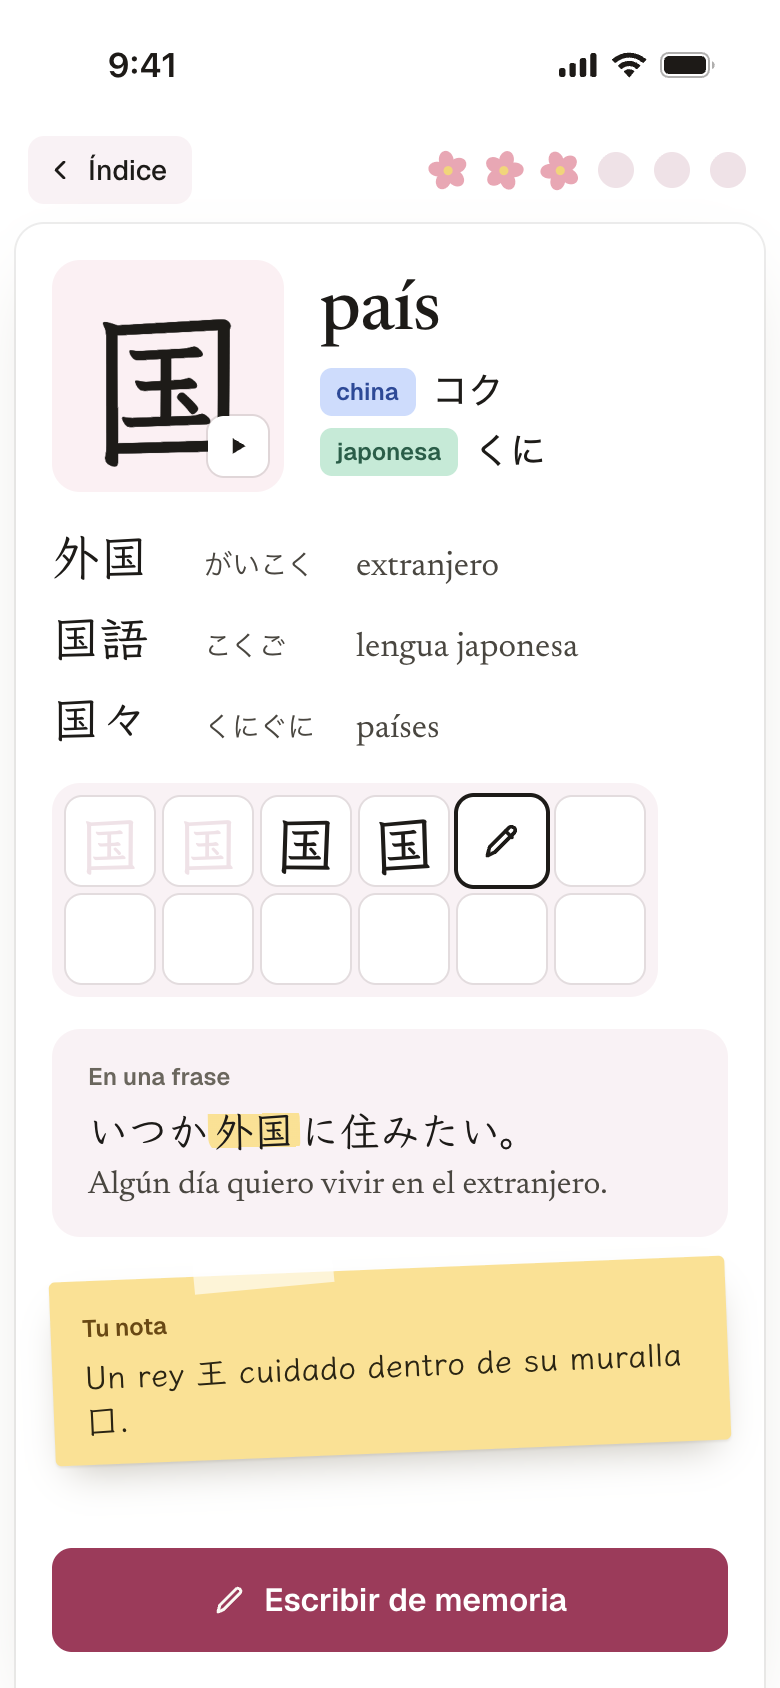
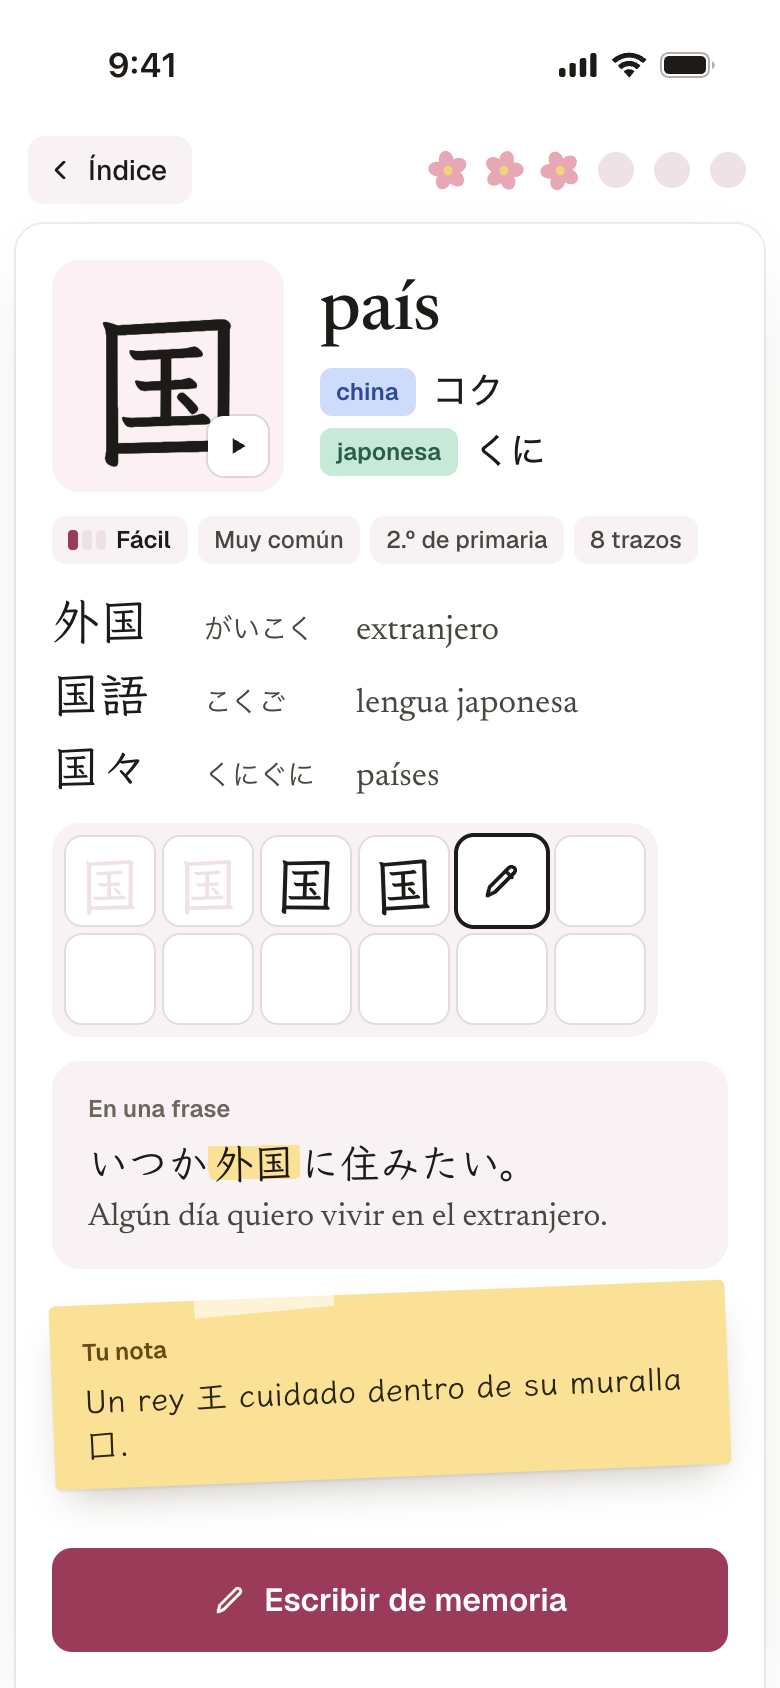
NOE-559 Maquetar sin ejemplos, sin preguntas y datos de la ficha

diff --git a/docs/rediseno/COBERTURA.md b/docs/rediseno/COBERTURA.md
@@ -20,7 +20,7 @@ Pantallas en Paper, archivo «Kanjy rediseño», página «Doriru»; exportes en
 | Lista de lecciones | Índice: terminadas plegadas, actual con washi «Hoy», próximas en una fila | cubierta |
 | Filtro N5 a N1 | Selector de nivel; pestañas solo en escritorio | cubierta |
 | Título, progreso y número de kanji | Índice («8 de 10»), Selector de nivel | cubierta |
-| Dificultad y tiempo estimado | Primer día («unos 10 minutos»); dificultad por kanji pendiente en ficha | parcial, revisar en plan |
+| Dificultad y tiempo estimado | Ficha (etiqueta «Fácil» con tres barras); Primer día («unos 10 minutos») | cubierta |
 | Estado de carga | Cargando | cubierta |
 
 ## Detalle de lección y tarjetas
@@ -32,7 +32,7 @@ Pantallas en Paper, archivo «Kanjy rediseño», página «Doriru»; exportes en
 | Anterior y siguiente, deslizar, teclas | Tarjetas de frases (flecha y «Siguiente frase»); teclas en tooltip de escritorio | cubierta |
 | Progreso del mazo | Tarjetas de frases, barra superior | cubierta |
 | Dificultad de cada frase | Tarjetas de frases, etiqueta | cubierta |
-| Sin ejemplos | Mismo patrón que búsqueda vacía | en especificación |
+| Sin ejemplos | Frases: sin ejemplos (palabras donde aparece y casillas para escribirlo) | cubierta |
 
 ## Ficha de kanji
 
@@ -44,7 +44,7 @@ Pantallas en Paper, archivo «Kanjy rediseño», página «Doriru»; exportes en
 | Frases de ejemplo con kanji resaltado y traducción | Página de hoy, Escritorio («En frases, con cada lectura») | cubierta |
 | Orden de trazos | Botón de reproducir en el kanji; tira en escritorio | cubierta |
 | Kanji no encontrado | Búsqueda fuera de nivel | cubierta |
-| Frecuencia y grado escolar | Pendiente de lugar en la ficha | revisar en plan |
+| Frecuencia, grado escolar y trazos | Ficha («Muy común», «2.º de primaria», «8 trazos») | cubierta |
 
 ## Examen
 
@@ -56,7 +56,7 @@ Pantallas en Paper, archivo «Kanjy rediseño», página «Doriru»; exportes en
 | Sonido | Botón de audio en la pregunta | nueva |
 | Progreso y cerrar | Hoja de respuestas en la barra | cubierta |
 | Tiempo por pregunta | Resultado («4 s») | cubierta |
-| Sin preguntas | Mismo patrón que búsqueda vacía | en especificación |
+| Sin preguntas | Examen: sin preguntas (botón apagado «Elige al menos una lección») | cubierta |
 
 ## Resultados
 
